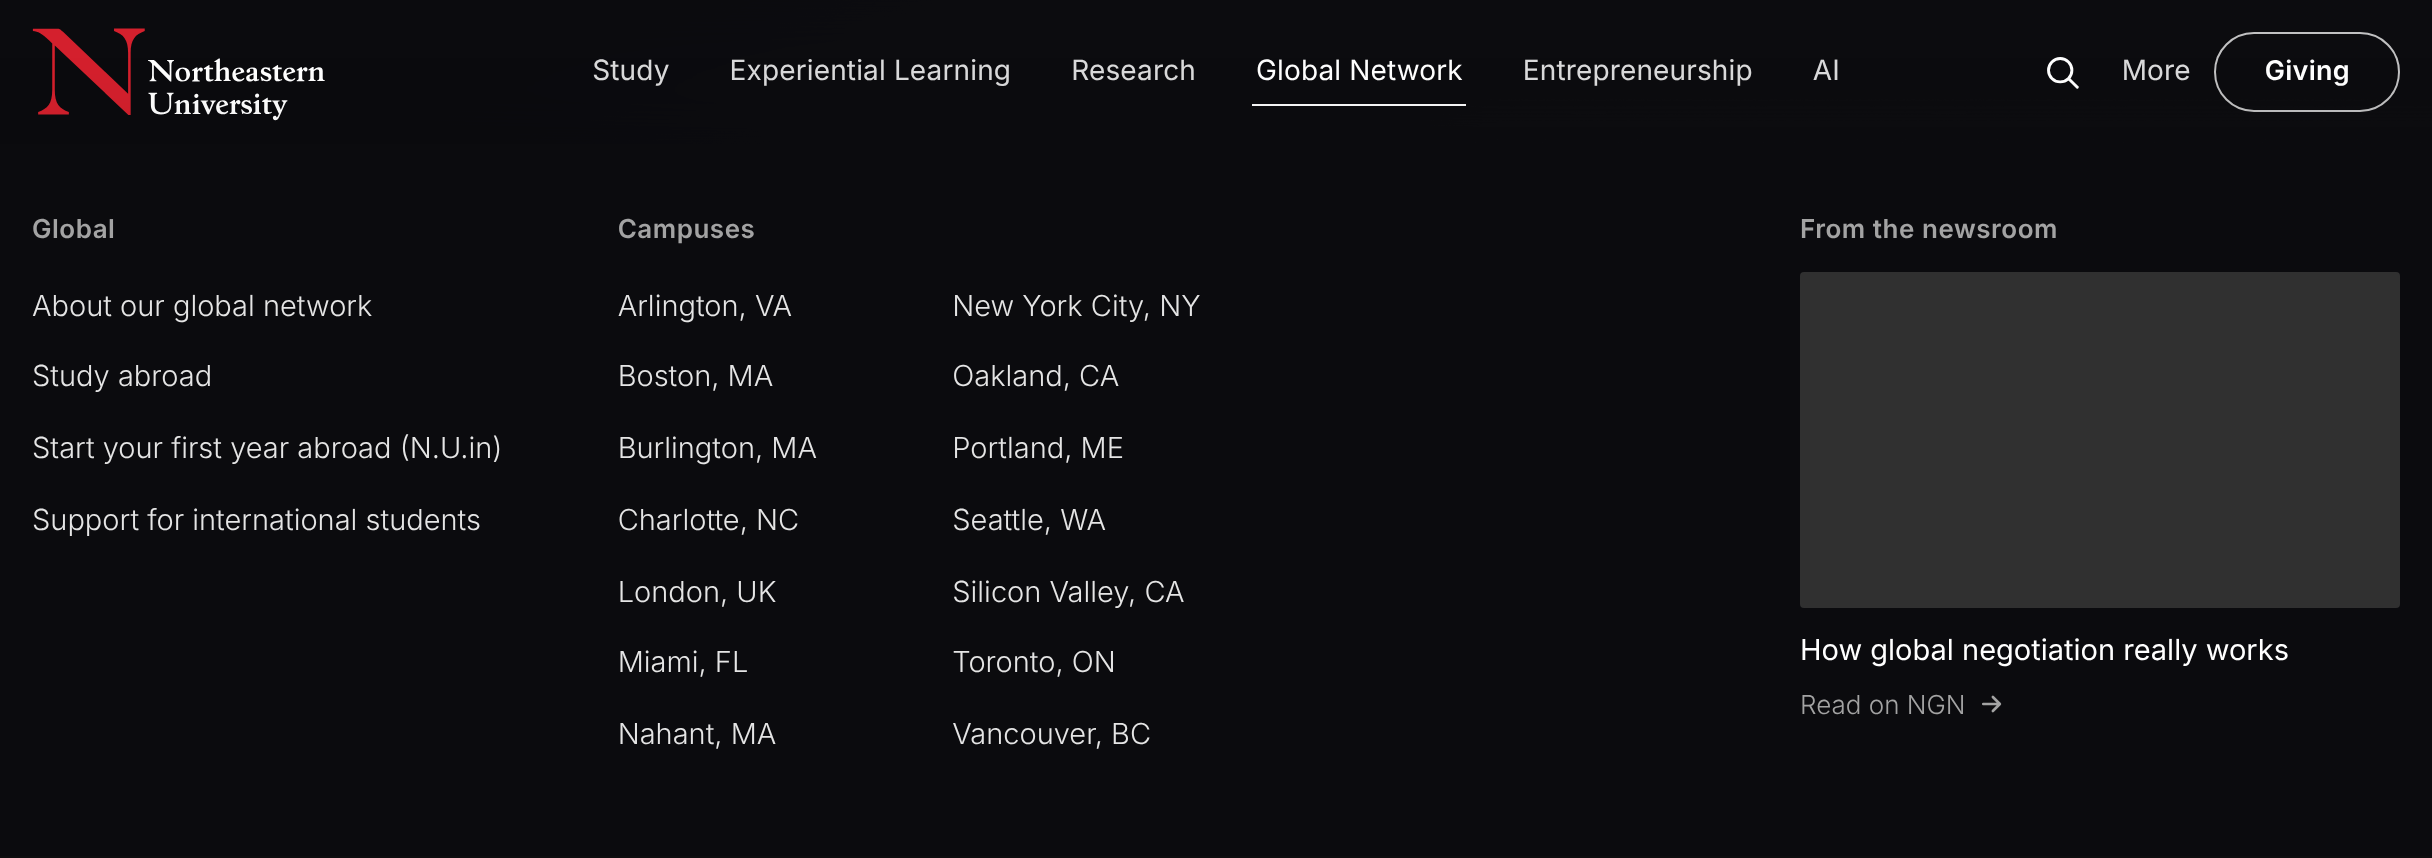
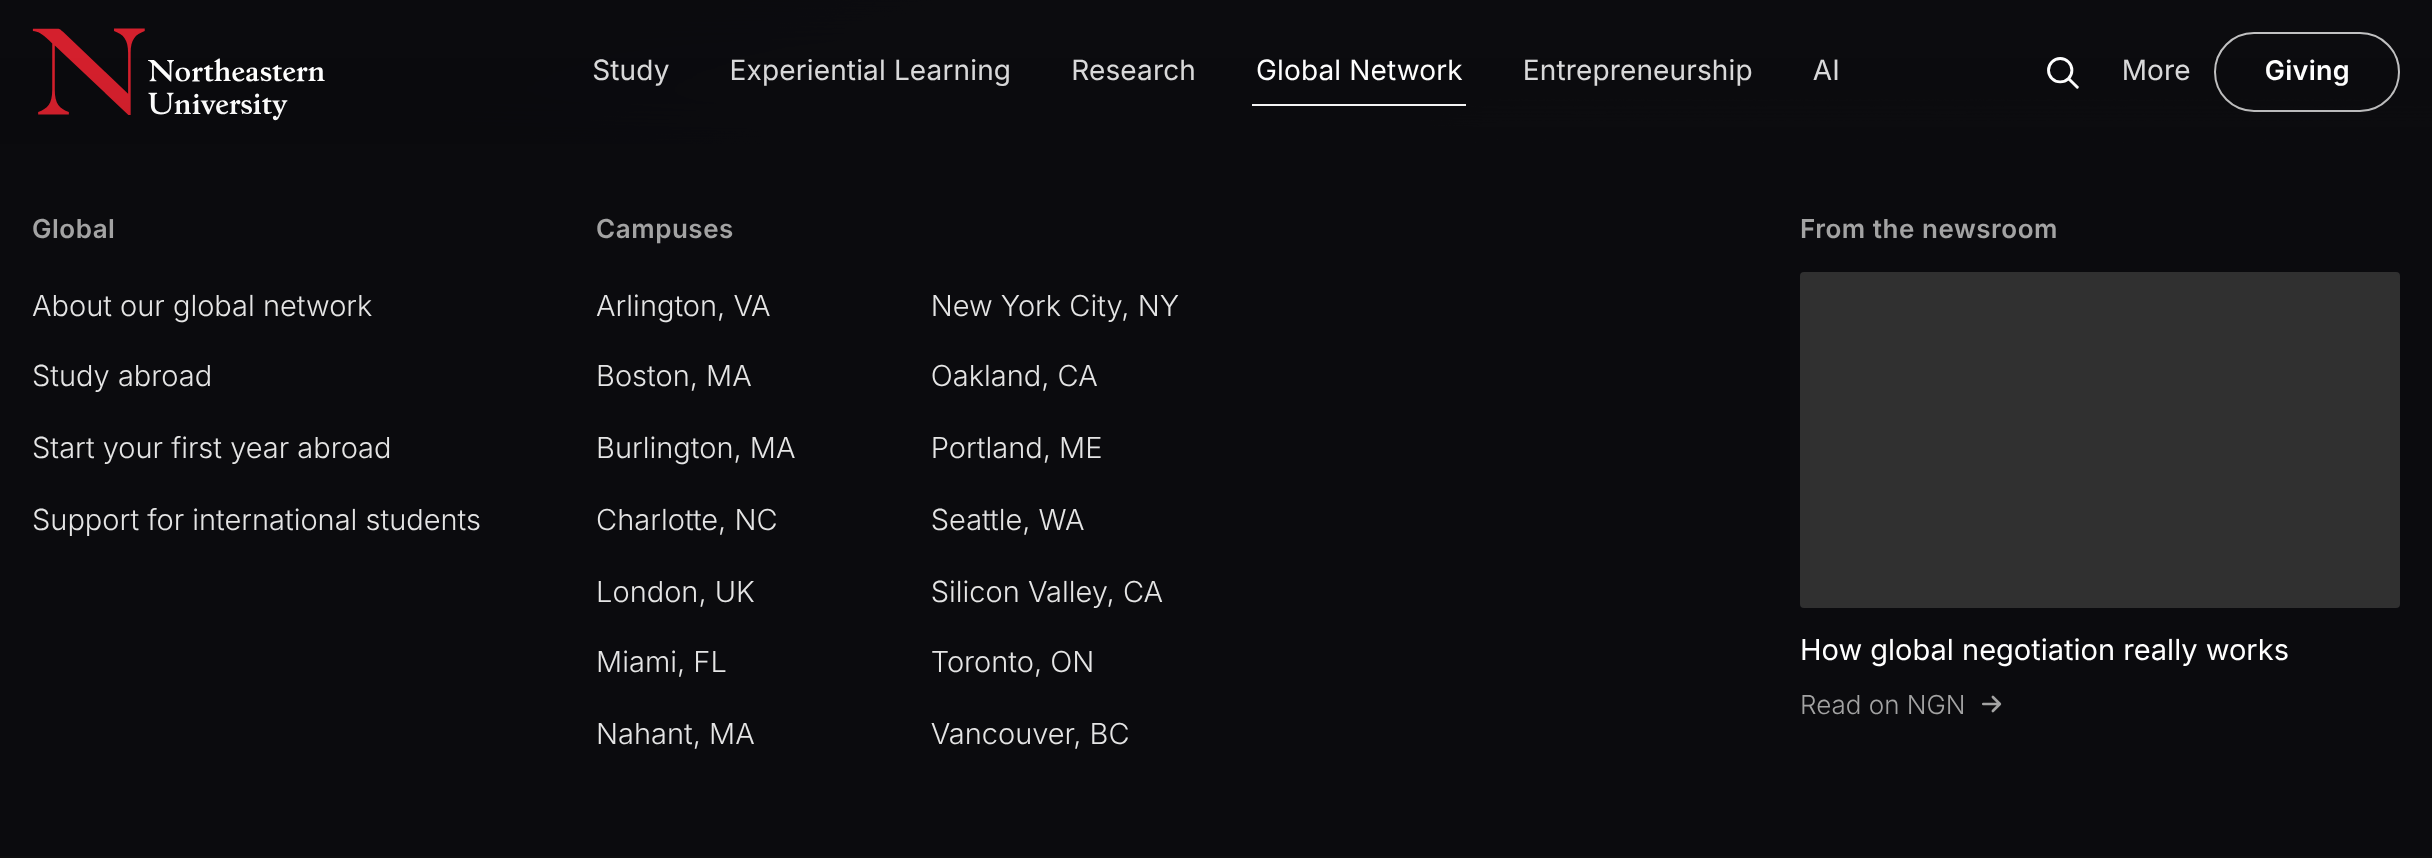
Concept 22: N.U.in link reads 'Start your first year abroad'
Claude-Session: https://claude.ai/code/session_01NmDkJiMHENnTGWnZnRnkmx

diff --git a/nav-compare/index.html b/nav-compare/index.html
@@ -92,7 +92,7 @@
 
   <section id="global">
     <div class="sh"><h2>Global Network</h2><span class="count">Links <b>21 → 18</b> (14 are campuses) · newsroom card kept</span></div>
-    <ul class="notes"><li>Removed: Our Global Campuses (the campus list does its job), Global Learning Experiences (parent of Study Abroad), Office of Global Services (part of the International Student Hub), Global Safety and Support.</li><li>Added: Start your first year abroad (N.U.in).</li><li>Two columns of general links merge into one.</li></ul>
+    <ul class="notes"><li>Removed: Our Global Campuses (the campus list does its job), Global Learning Experiences (parent of Study Abroad), Office of Global Services (part of the International Student Hub), Global Safety and Support.</li><li>Added: Start your first year abroad (the N.U.in program).</li><li>Two columns of general links merge into one.</li></ul>
     <div class="pair">
       <div class="col"><h3>Before · Concept 14</h3><a class="shot" href="shots/c14-mp-global.png"><img src="shots/c14-mp-global.png" alt="Concept 14 Global Network dropdown" loading="lazy"></a></div>
       <div class="col after"><h3>After · Concept 22</h3><a class="shot" href="shots/c22-mp-global.png"><img src="shots/c22-mp-global.png" alt="Concept 22 Global Network dropdown" loading="lazy"></a></div>

diff --git a/concept-22/index.html b/concept-22/index.html
@@ -1474,7 +1474,7 @@
       <div class="mp-col"><div class="mp-h">Global</div><div class="mp-links">
         <a href="https://www.northeastern.edu/our-global-university-system/">About our global network</a>
         <a href="https://geo.northeastern.edu/programs/study-abroad/">Study abroad</a>
-        <a href="https://nuin.northeastern.edu/">Start your first year abroad (N.U.in)</a>
+        <a href="https://nuin.northeastern.edu/">Start your first year abroad</a>
         <a href="https://international.northeastern.edu/">Support for international students</a>
       </div></div>
       <div class="mp-col cols2"><div class="mp-h">Campuses</div><div class="mp-links">
@@ -1580,7 +1580,7 @@
       <div class="tkv-sub" id="tsub-4">
         <a href="https://www.northeastern.edu/our-global-university-system/">About our global network</a>
         <a href="https://geo.northeastern.edu/programs/study-abroad/">Study abroad</a>
-        <a href="https://nuin.northeastern.edu/">Start your first year abroad (N.U.in)</a>
+        <a href="https://nuin.northeastern.edu/">Start your first year abroad</a>
         <a href="https://international.northeastern.edu/">Support for international students</a>
       </div>
     </div>
